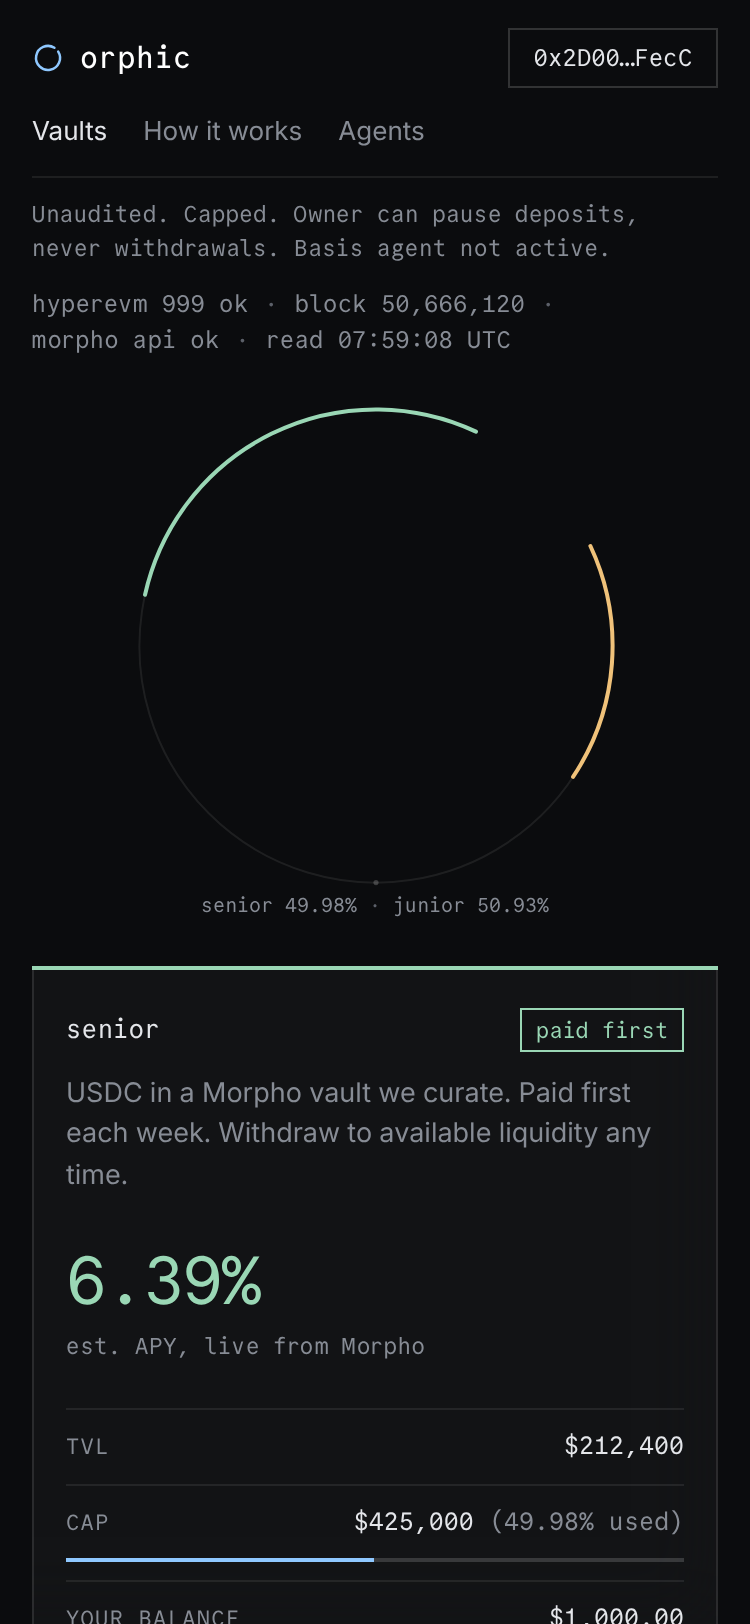
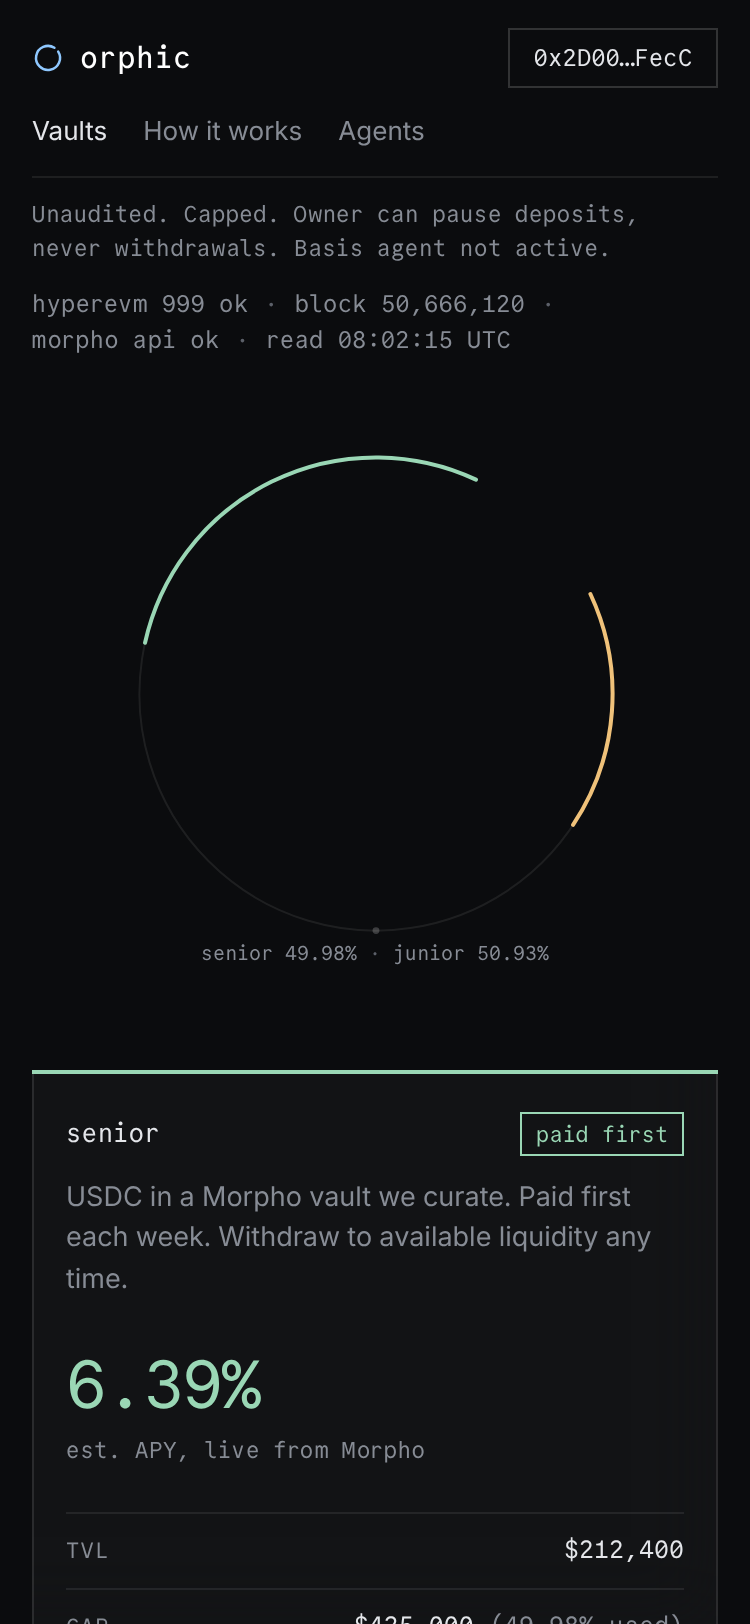
Cap ring in flow at all widths (wip), keeper README blast-radius section
Claude-Session: https://claude.ai/code/session_01VK7wQzmkGQZPQqinmGTyDE

diff --git a/web/src/components/CapRing.module.css b/web/src/components/CapRing.module.css
@@ -1,13 +1,9 @@
 .ring {
   margin: 0;
-  position: absolute;
-  left: 50%;
-  bottom: 36px;
-  width: 560px;
-  height: 560px;
-  transform: translateX(-50%);
-  z-index: 0;
-  pointer-events: none;
+  position: relative;
+  width: 200px;
+  height: 200px;
+  flex: none;
 }
 
 .svg {
@@ -20,13 +16,11 @@
 .track {
   fill: none;
   stroke: rgba(255, 255, 255, 0.08);
-  stroke-width: 1;
 }
 
 .senior,
 .junior {
   fill: none;
-  stroke-width: 2;
   stroke-linecap: round;
   transition: stroke-dasharray 90ms ease;
 }
@@ -61,16 +55,21 @@
   color: var(--faint);
 }
 
-@media (max-width: 859px) {
+/* Desktop: 200px instrument. viewBox is 560 so strokes scale by 2.8. */
+.track {
+  stroke-width: 2.8;
+}
+
+.senior,
+.junior {
+  stroke-width: 5.6;
+}
+
+@media (max-width: 720px) {
   .ring {
-    position: relative;
-    left: auto;
-    bottom: auto;
-    transform: none;
     width: 240px;
     height: 240px;
-    margin: 0 auto 40px;
-    pointer-events: auto;
+    margin: 24px auto 40px;
   }
   .track {
     stroke-width: 2.33;

diff --git a/web/src/pages/Vaults.tsx b/web/src/pages/Vaults.tsx
@@ -9,14 +9,16 @@ export default function Vaults() {
   const junior = useVault('junior')
   return (
     <>
-      <p className={s.notice}>Unaudited. Capped. Owner can pause deposits, never withdrawals. Basis agent not active.</p>
-      <Readout />
-      <div className={s.stage}>
-        <CapRing senior={senior.capUsed} junior={junior.capUsed} />
-        <div className={s.grid}>
-          <VaultArea kind="senior" state={senior} />
-          <VaultArea kind="junior" state={junior} />
+      <div className={s.head}>
+        <div className={s.headText}>
+          <p className={s.notice}>Unaudited. Capped. Owner can pause deposits, never withdrawals. Basis agent not active.</p>
+          <Readout />
         </div>
+        <CapRing senior={senior.capUsed} junior={junior.capUsed} />
+      </div>
+      <div className={s.grid}>
+        <VaultArea kind="senior" state={senior} />
+        <VaultArea kind="junior" state={junior} />
       </div>
     </>
   )

diff --git a/web/src/pages/Pages.module.css b/web/src/pages/Pages.module.css
@@ -1,9 +1,28 @@
+.head {
+  display: flex;
+  flex-direction: column;
+  margin-bottom: 28px;
+}
+
+.headText {
+  min-width: 0;
+}
+
 .notice {
   font-family: var(--mono);
   font-size: 11.5px;
   color: var(--muted);
   padding: 10px 0 0;
   margin: 0 0 10px;
+}
+
+@media (min-width: 721px) {
+  .head {
+    flex-direction: row;
+    align-items: center;
+    justify-content: space-between;
+    gap: 32px;
+  }
 }
 
 .square {
@@ -23,20 +42,7 @@
   background: var(--jun);
 }
 
-.stage {
-  position: relative;
-  padding-bottom: 72px;
-}
-
-@media (max-width: 859px) {
-  .stage {
-    padding-bottom: 0;
-  }
-}
-
 .grid {
-  position: relative;
-  z-index: 1;
   display: grid;
   grid-template-columns: 1fr;
   gap: 16px;

diff --git a/web/src/components/CapRing.tsx b/web/src/components/CapRing.tsx
@@ -50,7 +50,7 @@ export default function CapRing({ senior, junior }: { senior: number | null; jun
         <path d={track} className={s.track} />
         <path d={seniorPath} className={s.senior} style={{ strokeDasharray: dash(sen, seniorLen) }} />
         <path d={juniorPath} className={s.junior} style={{ strokeDasharray: dash(jun, juniorLen) }} />
-        <circle cx={bx} cy={by} r={3} className={s.dot} />
+        <circle cx={bx} cy={by} r={4} className={s.dot} />
       </svg>
       <figcaption className={s.caption}>
         <span>senior {senior === null ? 'n/a' : fmtPct(sen)}</span>

diff --git a/keeper/README.md b/keeper/README.md
@@ -152,7 +152,7 @@ npm run tick -- --weekly        # force the weekly close step
 
 Flags: `--dry-run` (always wins over `LIVE=1`), `--weekly`, `--fixture <path>`, `--config <path>`, `--ops-dir <path>`. Environment: `RPC_URL`, `AGENT_PRIVATE_KEY`, `LIVE`, `OPS_DIR`, `STATE_FIXTURE`. A `.env` file in the keeper directory is read if present and never printed.
 
-Exit code is non-zero if any transaction failed or the run errored, so the Action goes red.
+Exit code is 1 if any transaction failed or the run errored and 2 on senior config drift, so the Action goes red in both cases.
 
 ### GitHub Action
 
@@ -173,18 +173,30 @@ Exit code is non-zero if any transaction failed or the run errored, so the Actio
 4. Wait for one successful live tick from the new key, then have the curator call `setIsAllocator(oldAgent, false)`.
 5. Sweep leftover HYPE from the old EOA.
 
-Because the key only ever holds allocator rights, a compromised key can at worst move funds between the vault's own approved adapters within the curator's caps. It cannot withdraw.
+Because the key only ever holds allocator rights, a compromised key can at worst move funds between the vault's own approved adapters within the curator's caps, or change `maxRate` and the liquidity adapter (see the drift check). It cannot withdraw. Revoke it from the Safe with `setIsAllocator(agent, false)`, which takes effect instantly.
 
-## What the keeper can never do
+## Senior config drift check (`src/exec/drift.ts`)
 
-- Move assets anywhere except between the vault's idle balance and its registered adapters through `allocate` and `deallocate`. It never calls `withdraw`, `redeem`, `transfer` or any curator or owner function. On junior it only calls the permissionless `syncSenior()` and `settle()`.
-- Change caps, fees, adapters, timelocks or the liquidity adapter. Those are curator actions behind the vault timelock.
+Every tick, dry-run included, whenever the vault address is real: read `senior.maxRate()` and `senior.liquidityAdapter()` and compare against `expectedMaxRate` (`63419583967`, per-second WAD) and the expected liquidity adapter (`felixAdapter` when set, otherwise `adapters.morphoVaultV1`). On a mismatch the keeper prints `WARNING: senior config drift: maxRate X (expected Y)` or `WARNING: senior config drift: liquidityAdapter X (expected Y)`, puts the lines in the report's top-level `alerts` array, and exits with code 2 so the GitHub Action step shows red even when everything else succeeded. The keeper never tries to fix drift: the only key it holds is the allocator key, which is exactly the key that could have been used to cause it. The response is a human one, revoke the allocator from the Safe and investigate.
+
+## What the keeper can never do, and what it chooses never to do
+
+Hard limits enforced by the vault and the code:
+
+- Withdraw or transfer assets out of the vault. An allocator can only move assets between the vault's idle balance and its registered adapters through `allocate` and `deallocate`. It cannot call `withdraw`, `redeem`, `transfer`, or any owner or curator function (caps, fees, adding or removing adapters, timelocks).
+- Exceed the vault's `absoluteCap` and `relativeCap`; the vault enforces these on-chain regardless of what the keeper proposes.
+- Send `proposeStakePerAsset` or any other owner-only call. It only prints the proposal.
 - Broadcast while any config address is `0xTODO`, while `LIVE` is not `1`, or without a well-formed `AGENT_PRIVATE_KEY`.
 - Take any market above 50% of its supply or Felix above 50% of its assets, drop idle below 2% or Felix below 10% in a proposal, or send a single transfer above the max clip.
-- Exceed the vault's own `absoluteCap` and `relativeCap`; the vault enforces these on-chain regardless of what the keeper proposes.
 - Continue a plan after a failed post-state check.
-- Send `proposeStakePerAsset` or any other owner-only call. It only prints the proposal.
 - Print or persist the private key. It is read from the environment only and the dry-run path never touches it.
+
+What an allocator technically can do, and the keeper never does:
+
+- On Vault V2 an allocator CAN call `setMaxRate` and `setLiquidityAdapterAndData` instantly, with no timelock. The keeper has no code path that calls either; its ABI fragments do not even include them. It only reads them for the drift check above.
+- Because of this, a leaked allocator key could change the rate cap or the liquidity adapter, or churn allocations within caps. That is the blast radius. It cannot take funds out of the vault.
+- Mitigation by design: `setIsAllocator` is not timelocked, so the Safe (curator) revokes a compromised allocator instantly. The drift check exists to make that call quickly.
+- On junior it only calls the permissionless `syncSenior()` and `settle()`.
 
 ## Layout
 
@@ -203,6 +215,7 @@ src/engine/allocate.ts  proposal and move decision
 src/exec/plan.ts        plan sequencing and validation
 src/exec/send.ts        dry-run and live execution, weekly close
 src/exec/junior.ts      junior syncSenior, cover status, maturity check and settle
+src/exec/drift.ts       senior maxRate and liquidityAdapter drift check (report only)
 src/report.ts           report writer and summary
 src/index.ts            tick entry point
 test/                   vitest suites and fixtures
